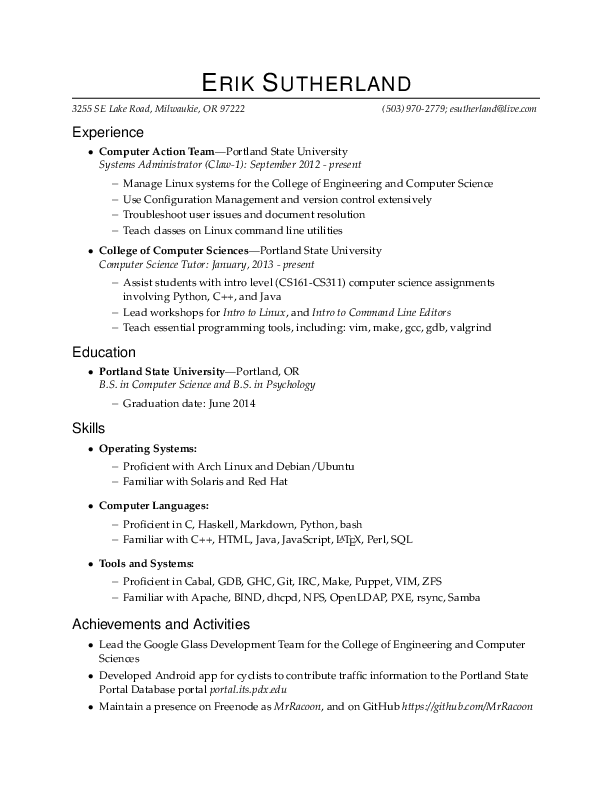
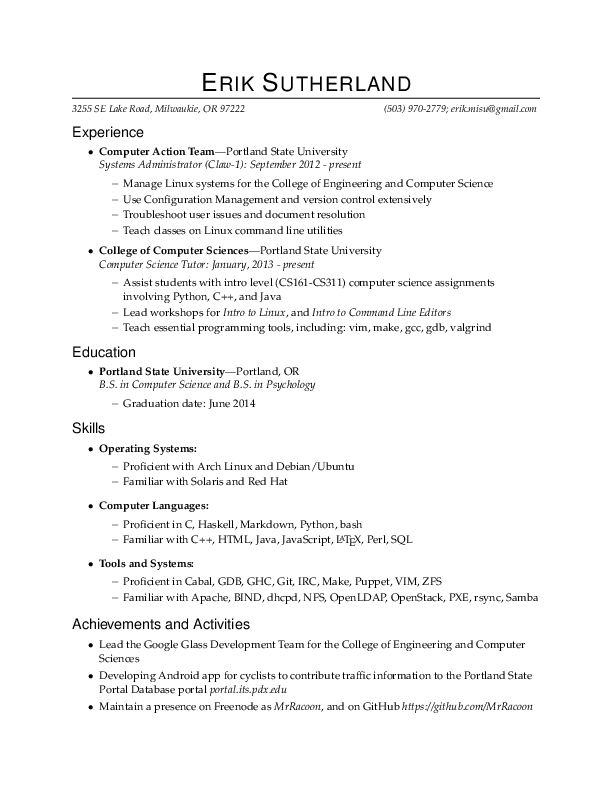
Updated on Wed Feb 26 14:52:15 PST 2014
Just a few more minor edits.

diff --git a/resume.tex b/resume.tex
@@ -18,7 +18,7 @@
 \newcommand{\name}{Erik Sutherland}
 \newcommand{\addr}{3255 SE Lake Road, Milwaukie, OR 97222}
 \newcommand{\phone}{(503) 970-2779}
-\newcommand{\email}{esutherland@live.com}
+\newcommand{\email}{erik.misu@gmail.com}
 
 %%%%%%%%%%%%%%%%%%%%%%%%%%%%%%%%%%%%%%%%%%%%%%%%%%%%%%%%%
 % New commands and environments
@@ -128,7 +128,7 @@
 	\end{reslist}
 	\begin{reslist}{Tools and Systems:}
         \ressubitem{Proficient in Cabal, GDB, GHC, Git, IRC, Make, Puppet, VIM, ZFS}
-        \ressubitem{Familiar with Apache, BIND, dhcpd, NFS, OpenLDAP, PXE, rsync, Samba}
+        \ressubitem{Familiar with Apache, BIND, dhcpd, NFS, OpenLDAP, OpenStack, PXE, rsync, Samba}
 	\end{reslist}
 \end{ressection}
 
@@ -136,7 +136,7 @@
 %%%%%%%%%%%%%%%%%%%%%%%%
 \begin{ressection}{Achievements and Activities}
     \resitem{Lead the Google Glass Development Team for the College of Engineering and Computer Sciences}
-    \resitem{Developed Android app for cyclists to contribute traffic information to the Portland State Portal Database portal \textit{portal.its.pdx.edu}}
+    \resitem{Developing Android app for cyclists to contribute traffic information to the Portland State Portal Database portal \textit{portal.its.pdx.edu}}
     \resitem{Maintain a presence on Freenode as \textit{MrRacoon}, and on GitHub \textit{https://github.com/MrRacoon}}
 \end{ressection}
 
